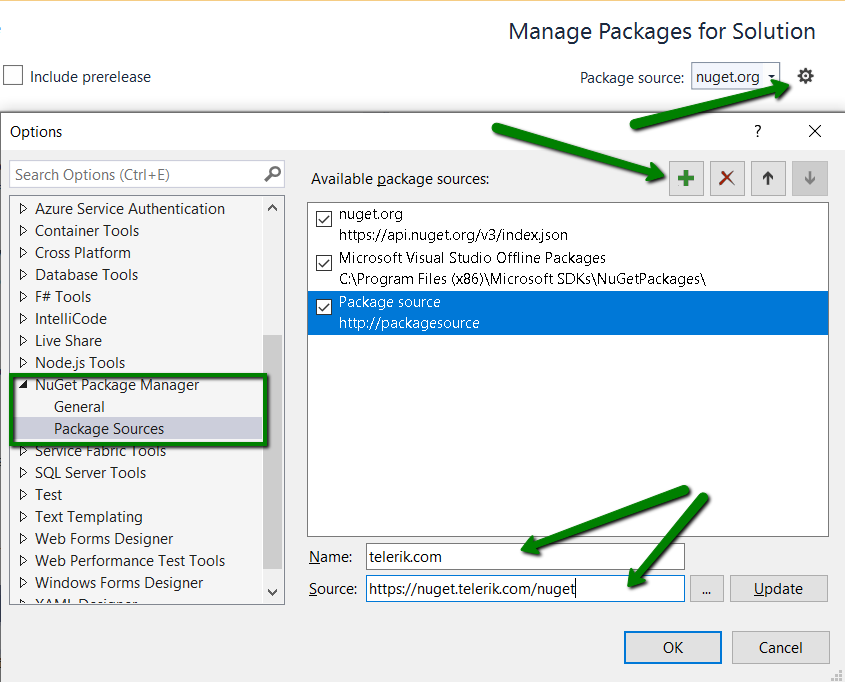
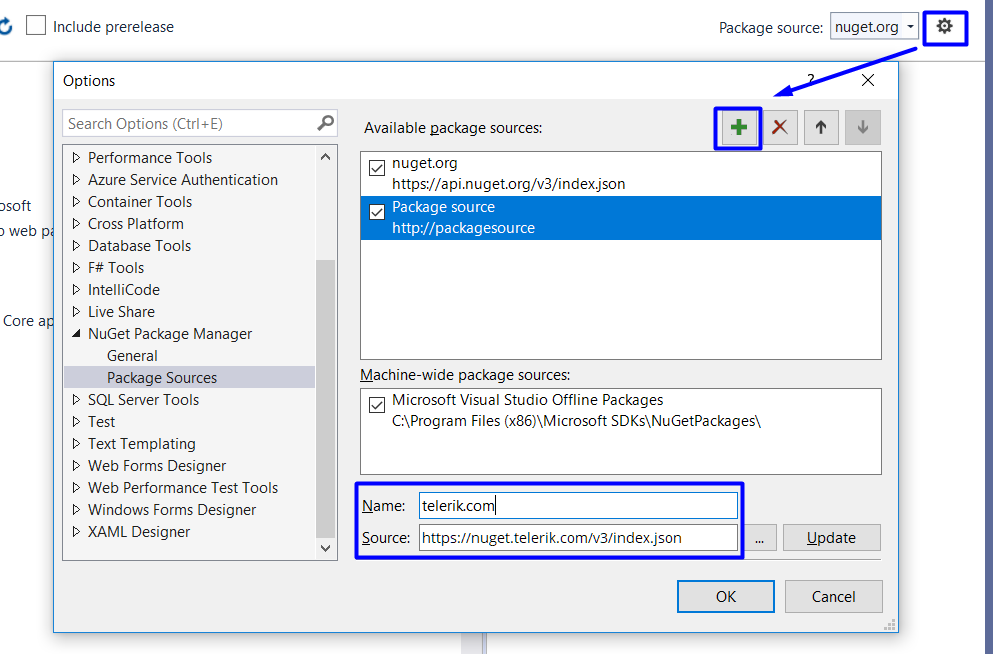
chore: update nuget section in README.md

Changed region(s): [[0.0, 0.0, 1.0, 1.0], [0.0, 0.0306, 0.1846, 0.0612]]

diff --git a/README.md b/README.md
@@ -917,7 +917,7 @@ In order to add a reference to the commercial NuGet Package follow the steps bel
 1. Navigate to **Dependencies > Packages** from the Solution explorer in Visual Studio.
 2. Right click on **Telerik.UI.for.AspNet.Core.Trial** and select Remove from the context menu.
 3. Go to **Tools > NuGet Package Manager > Package Manager Settings**, select **Package Manager Sources** and then click the + button.
-4. Choose feed Name, set the feed URL to: https://nuget.telerik.com/nuget and click OK.
+4. Choose feed Name, set the feed URL to: https://nuget.telerik.com/v3/index.json and click OK.
 
     ![KendoUIResources](images/add-nuget-package-source.png)
 
